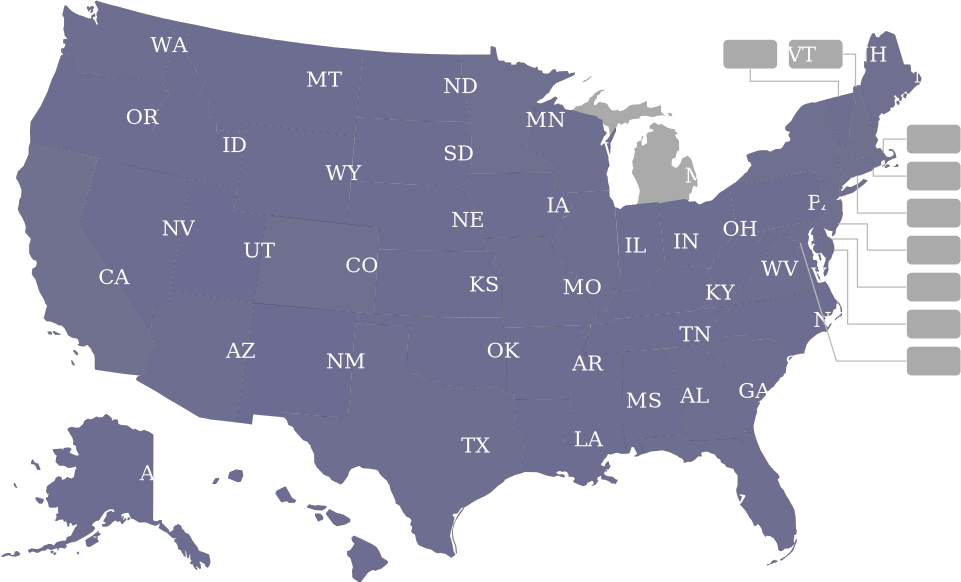
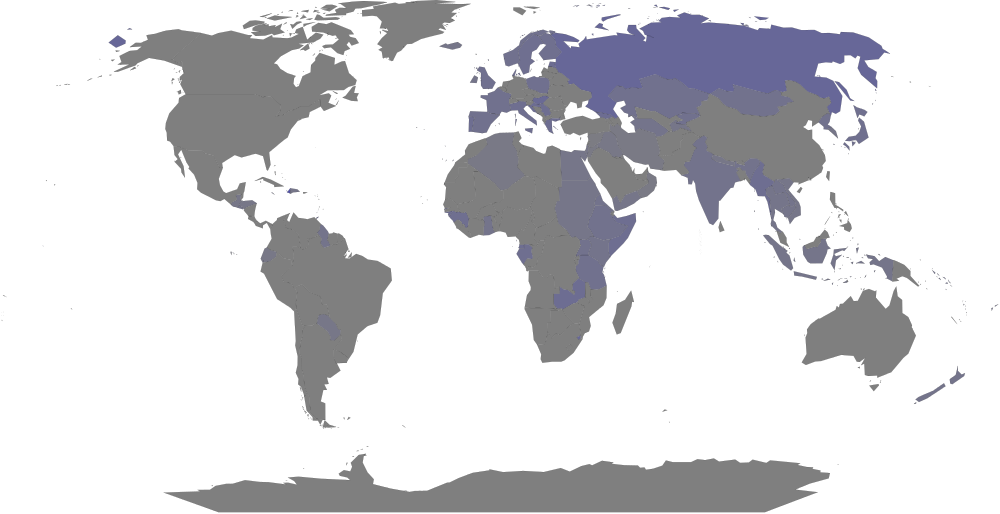
added world map for death rates

diff --git a/templates/input.html b/templates/input.html
@@ -33,27 +33,31 @@
 
 
 <div class="container">
-
+<h1>Trends</h1><br/>
 
   <form action="/">
 
     Input 1 :<select name="Input1" id="Input1">
   <option value="1">Housing Prices</option>
   <option value="2">Military Purchase</option>
-  <option value="3">Both</option>
+  <option value="3">Housing Prices and Military</option>
+  <option value="4">Death rates</option>
 </select>
-
-<select name="Range" id="Range">
+<br/>
+Range :<select name="Range" id="Range">
   <option value="1">Present Value</option>
   <option value="2">Last 5 years</option>
   <option value="3">Last 10 years</option>
 </select>
-
-   <button id="btnSignUp" class="btn btn-lg btn-primary btn-block" type="button">Submit</button>
+<br/> <br/>
+   <button id="btnSignUp" class="btn btn-lg btn-primary btn-block" type="button" style="width:100px">Submit</button>
+      <br/>
+      <br/>
 </form>
 
-</div>
-<img src="static/output.png"/>
 
+<h1>Output</h1>
+<img src="static/output.png" style="float:right"/>
+</div>
 </body>
 </html>

diff --git a/app.py b/app.py
@@ -8,24 +8,65 @@ import cairosvg
 
 mimetypes.add_type('image/svg+xml', '.svg')
 
-def createPng(dictionary):
+def createPng(dictionary,isWorld):
     print dictionary
     #dictionary = {u'HI':0,u'WA': 0.11640154287441533, u'DE': 0.10653245699693925, u'DC': 0.0041999218375667908, u'WI': 0.04177312011442888, u'WV': 0.044655479867581796, u'FL': 0.0145210401703301, u'WY': 0.0083883931524397631, u'NH': 0.013325407353239786, u'NJ': 0.0022909522192498233, u'NM': 0.045981546101387376, u'TX': 0.37338386680563035, u'LA': 0.0055753859680801555, u'NC': 0.05631382783926054, u'ND': 0.0024310450918256063, u'NE': 0.0050522372216981254, u'TN': 0.11086195089846941, u'NY': 0.015144044310735185, u'PA': 0.014369790728777414, u'CT': 0.0083071183677789779, u'AK': 0.0094143873303377656, u'NV': 0.026699002607654933, u'VA': 0.035906849853128003, u'GU': 0.053507608934921805, u'CO': 0.15141854013737513, u'CA': 0.47255912028907099, u'AL': 0.4881142007657831, u'AR': 0.014430365702860956, u'VT': 0.00019083748747501843, u'IL': 0.093519577133844733, u'GA': 0.29313095413457285, u'IN': 0.18011246989907964, u'IA': 0.0076042066693034135, u'MA': 0.01480640770425893, u'AZ': 0.16582270977876581, u'ID': 0.029387810928551077, u'PR': 0.01542957591185485, u'ME': 0.017373840484600587, u'MD': 0.0035692407198571344, u'OK': 0.005896157834564977, u'OH': 0.30339268698038618, u'UT': 0.024269509318009322, u'MO': 0.13195694464937613, u'MN': 0.003030122766900322, u'MI': 0.20199045380985614, u'RI': 0.040445884901888586, u'KS': 0.0020843095923908589, u'MT': 0.011052564050178576, u'MS': 0.0081120356417410562, u'SC': 0.053881203600723133, u'KY': 0.10614887474089574, u'OR': 0.020659682476818934, u'SD': 0.0065830661458009991}
-    svg = open('/home/ms/PycharmProjects/A.R.M.Y2/USA_STATES_Labels.svg', 'r').read()
+    print str(isWorld)+" is world"
+    if int(isWorld)==1:
+        #print "here1"
+        svg= open('/home/ms/PycharmProjects/A.R.M.Y2/world.svg', 'r').read()
+        #print "here"
+        pr = 'data-iso3'
+    else:
+        svg = open('/home/ms/PycharmProjects/A.R.M.Y2/USA_STATES_Labels.svg', 'r').read()
+        pr = 'id'
     soup = BeautifulSoup(svg)
     paths = soup.findAll('path')
+
+    #colour_array=[]
+    #red = Color("red")
+    #blue = Color("blue")
+    #colour_array=list(red.range_to(blue, 5))
+    #print colour_array
 
     path_style = 'font-size:12px;fill-rule:nonzero;stroke:#000000;stroke-opacity:1;stroke-width:0.1;stroke-miterlimit:4;stroke-dasharray:none;stroke-linecap:butt;marker-start:none;stroke-linejoin:bevel;fill:'
     for p in paths:
 
-        if p['id'] not in ["State_Lines", "separator","path4148","MI-","SP-"]:
+        if p[pr] not in ["State_Lines", "separator","path4148","MI-","SP-"]:
             #print str(p['id'])
-            if str(p['id']).startswith("path"):
+            print p[pr]
+
+            if str(p[pr]).startswith("path"):
                 continue
-            color = Color("blue", saturation= dictionary[str(p['id'])])
+
+            if p[pr] not in dictionary.keys():
+               color = Color("blue", saturation=0)
+               print "here"
+            else:
+               color = Color("blue", saturation= dictionary[str(p[pr])])
+
+            ''' if int(p['id'])<10:
+                color=colour_array[0]
+
+            elif int(p['id'])<20:
+                color=colour_array[1]
+
+            elif int(p['id'])<30:
+                color=colour_array[2]
+
+            elif int(p['id'])<40:
+                color=colour_array[3]
+
+            elif int(p['id'])<50:
+                color=colour_array[4]
+
+            else:
+                color=colour_array[5]'''
+
+
             p['style'] = path_style + color.hex
 
-    #print soup.prettify()
+    print soup.prettify()
     f=open('static/output.png','w')
     cairosvg.svg2png(bytestring=soup.prettify(),write_to=f)
     f.close()
@@ -37,6 +78,7 @@ app = Flask(__name__)
 @app.route('/',methods=['POST'])
 def getOutput():
     l=[]
+    isWorld=0
     _range = request.form['Range']
     _input1 = request.form['Input1']
     print _input1
@@ -45,14 +87,17 @@ def getOutput():
         l.append('military')
     elif int(_input1)==1:
         l.append('housing')
-    else:
+    elif int(_input1)==2:
         l.append('military')
+    else:
+        isWorld=1
+        l.append('deathCountry')
 
     l.append(int(_range))
 
     print l
     data= analysis(l)
-    createPng(data)
+    createPng(data,isWorld)
     return render_template('input.html')
 
 @app.route("/input")

diff --git a/jsonQuery.py b/jsonQuery.py
@@ -1,7 +1,10 @@
 import housing_data
 import military_data
 import queries
+import numpy as np
 from runQueryRun import getDataFromQuery
+from sklearn import preprocessing
+
 
 def analysis(inputQuery):
 
@@ -19,8 +22,18 @@ def analysis(inputQuery):
         elif inputQuery[0] == "military":
             analyzeQueryM = queries.queries['military']
             finalOutput = (military_data.analysis(getDataFromQuery(analyzeQueryM),inputQuery[1]))
+        elif inputQuery[0] == "deathCountry":
+            analyzeQueryD = queries.queries['deathCountry']
+            output = getDataFromQuery(analyzeQueryD)
+            value = []
+            for v in output:
+                value.append(v[1])
+            value = preprocessing.normalize(value)
+            finalOutput = []
+            for v in xrange(len(value[0])):
+                finalOutput.append([output[v][0],value[0][v]])
+            finalOutput = dict(finalOutput)
 
     return finalOutput
 
-
-analysis(['housing','military',1])
+#print analysis(['deathCountry',2])

diff --git a/queries.py b/queries.py
@@ -1,8 +1,9 @@
 queries = {
     'housing' : 'select * from HOUSING_DATA.freddie_mae_house_price_index;',
     'military' : 'select SUM("Total Cost"), "State", EXTRACT (YEAR FROM "Ship Date") from CRIME_DATA.policy_military_purchases group by EXTRACT (YEAR FROM "Ship Date") , "State";',
-    'death' : '',
+    'deathCountry' : 'select "Country Code", avg("Death Rate Per 100,000") from HEALTH.death_rates_by_country where "Year" = 2010 and "Age Group" = \'All ages\' group by "Country Code";',
     'crime' : '',
-    'deathWeather' : '',
-    'deathAccident' : ''
+    'deathWeather' : '',                                                                                                                                                                                                                         'deathAccident' : ''
 }
+
+
